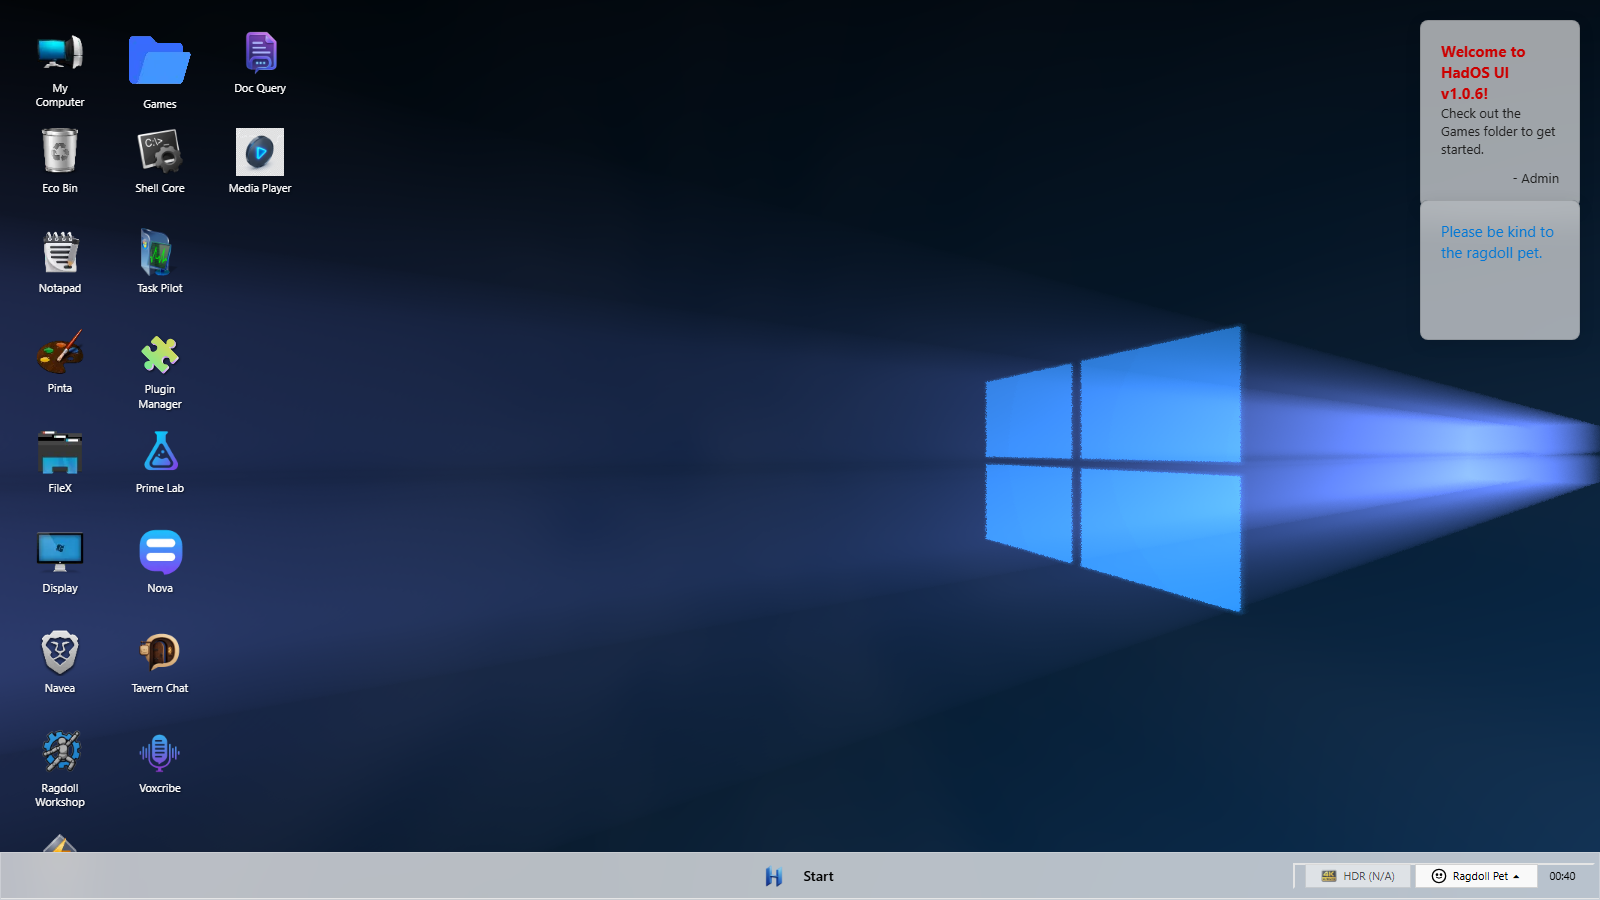
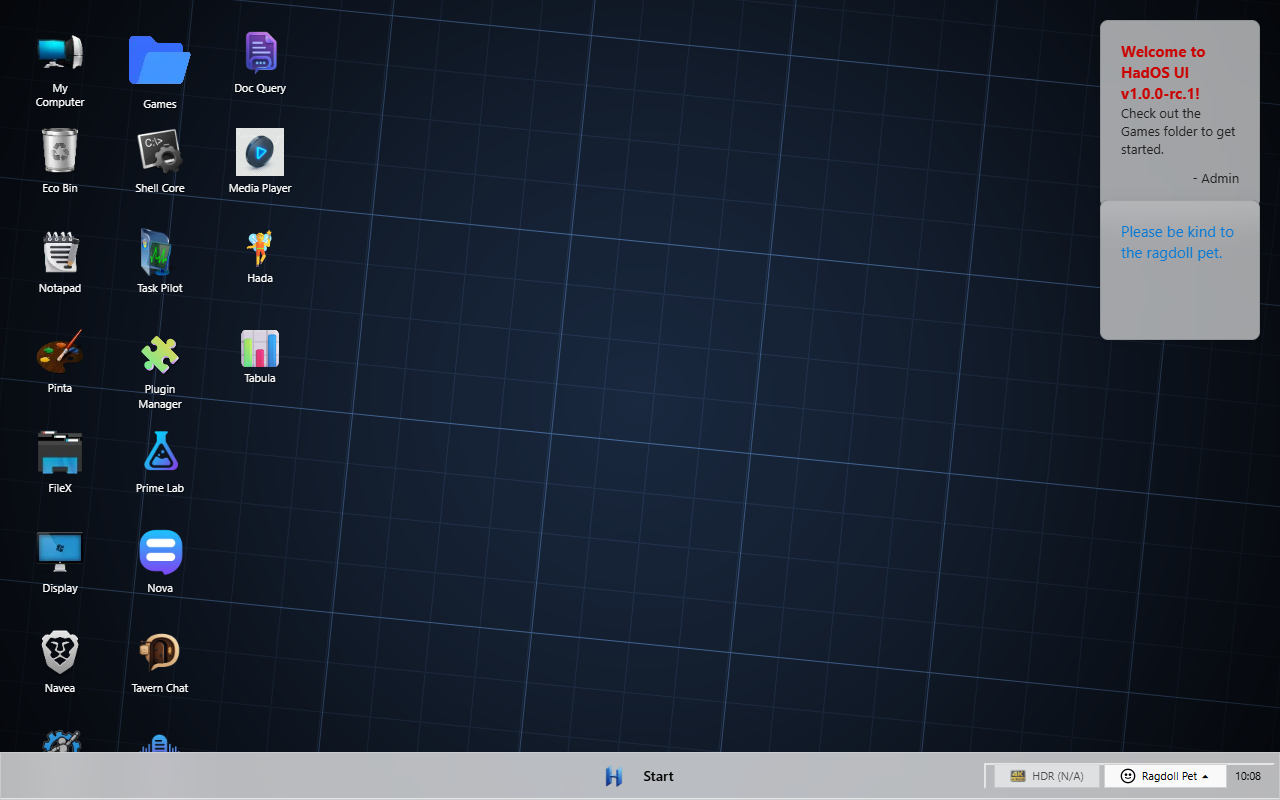
chore(release): v1.0.0-rc.1 — first public release candidate
Renumbers the internal 1.0.x line to a 1.0.0 public launch. This RC is the
polished v1.0.10 tree (the v1.0.9 architecture-debt payoff + the window-chrome
and app-identity sweep) with the desktop's last Windows traces removed: HadOS
wallpapers, the HadOS grid shader on the modern theme, and each app's own icon on
its window and taskbar button.

- Version bumped across package.json, sw.ts (CACHE_VERSION), index.html
  (title + welcome), Terminal ver fallbacks; CONFIG.APP.VERSION reads package.json.
- CHANGELOG [Unreleased] promoted to [1.0.0-rc.1].
- docs/screenshots/desktop-modern.png recaptured (Playwright/swiftshader): the
  modern theme now shows the HadOS grid shader, in English, with the rc.1 sticky.

Gates: tsc clean, eslint 0 errors, 1044/1044 vitest, build OK. Lockfile diff is
the clean 2-line version bump.

diff --git a/index.html b/index.html
@@ -5,7 +5,7 @@
     <meta charset="UTF-8">
     <meta name="viewport" content="width=device-width, initial-scale=1.0">
     <meta http-equiv="Content-Security-Policy" content="default-src 'self'; script-src 'self' 'wasm-unsafe-eval'; style-src 'self' 'unsafe-inline'; img-src 'self' data: blob: *; media-src 'self' blob: data: *; connect-src 'self' blob: data: https://*.radio-browser.info https://storage.googleapis.com https://hacker-news.firebaseio.com https://noembed.com https://huggingface.co https://*.huggingface.co https://*.hf.co; frame-src 'self' * data: about:blank; worker-src 'self' blob:;">
-    <title>HadOS v1.0.10</title>
+    <title>HadOS v1.0.0-rc.1</title>
     <meta name="description"
         content="HadOS — a Web OS in your browser: isolated processes, mediated syscalls and consented capabilities, with games, apps and a 3D physics pet.">
     <!-- Browsers paint their chrome with this. It was #008080 — Windows 95 teal. -->
@@ -212,7 +212,7 @@
 
     <!-- Sticky Notes (Post-its) -->
     <div id="sticky-note" class="sticky-note draggable-sticky">
-        <p id="welcome-text" data-i18n="sticky.welcome_hados">Welcome to HadOS v1.0.10!</p>
+        <p id="welcome-text" data-i18n="sticky.welcome_hados">Welcome to HadOS v1.0.0-rc.1!</p>
         <p data-i18n="sticky.games_hint">Check out the Games folder to get started.</p>
         <p style="text-align: right; margin-top: 10px; font-size: 13px;" data-i18n="sticky.admin">- Admin</p>
     </div>

diff --git a/js/apps/Terminal.ts b/js/apps/Terminal.ts
@@ -234,8 +234,8 @@ export class Terminal implements IWindowsApp {
             this.writeOutput('  ver          - Print version info');
             this.writeOutput('  help         - Show this help menu');
         } else if (cmd === 'ver') {
-            this.writeOutput(`HadOS Terminal [Version ${CONFIG.APP?.VERSION || '1.0.10'}]`);
-            this.writeOutput(`HadOS version: ${CONFIG.APP?.VERSION || '1.0.10'}`);
+            this.writeOutput(`HadOS Terminal [Version ${CONFIG.APP?.VERSION || '1.0.0-rc.1'}]`);
+            this.writeOutput(`HadOS version: ${CONFIG.APP?.VERSION || '1.0.0-rc.1'}`);
         } else if (cmd === 'cls' || cmd === 'clear') {
             if (this.outputContainer) this.outputContainer.innerHTML = '';
         } else if (cmd === 'cd') {

diff --git a/sw.ts b/sw.ts
@@ -6,7 +6,7 @@
 
 declare const self: ServiceWorkerGlobalScope & { __WB_MANIFEST?: Array<{ url: string }> };
 
-const CACHE_VERSION = '1.0.10';
+const CACHE_VERSION = '1.0.0-rc.1';
 const CACHE_NAME = `hados-v${CACHE_VERSION}`;
 const DYNAMIC_CACHE = `hados-dynamic-v${CACHE_VERSION}`;
 const MAX_DYNAMIC_ITEMS = 80;

diff --git a/CHANGELOG.md b/CHANGELOG.md
@@ -6,6 +6,14 @@ and this project adheres to [Semantic Versioning](https://semver.org/spec/v2.0.0
 
 ## [Unreleased]
 
+## [1.0.0-rc.1] - 2026-07-24
+
+First **public** release candidate. The project's internal 1.0.x line is
+renumbered to a 1.0.0 public launch; this RC is the polished v1.0.10 tree (the
+v1.0.9 architecture-debt payoff plus the window-chrome and app-identity sweep)
+with the desktop's last Windows traces removed — HadOS wallpapers, the HadOS grid
+shader on the modern theme, and its own icon on every window.
+
 ### Changed
 
 - **Modern-theme wallpaper shader replaced — the last Windows trace is gone**:
@@ -17,9 +25,10 @@ and this project adheres to [Semantic Versioning](https://semver.org/spec/v2.0.0
   rewritten **without `fwidth`** (the context doesn't enable
   `OES_standard_derivatives`, so a derivative call would fail to compile) —
   the per-pixel line width is derived from `iResolution` instead, so lines stay
-  ~1px crisp. Verified: compiles and links clean in a real WebGL1 context and
-  renders the intended palette (base ~rgb(10,13,18), grid highlights, vignetted
-  edges).
+  ~1px crisp. The palette is tuned to read on a desktop rather than vanish into
+  black: deep night-blue base (~rgb(15,23,35) average), bright grid lines
+  (~rgb(100/ch) peaks), a soft central glow and a vignette for depth. Verified by
+  offscreen render (compiles and links clean in a real WebGL1 context).
 - **New desktop wallpaper set**: the eight Windows-nostalgia wallpapers
   (`w95_1..8.webp`, labelled "Windows 95" / "Win 10 Retro" / …) are replaced by
   eight HadOS wallpapers (`Had_01..08.webp`, labelled "HadOS 1..8") in the
